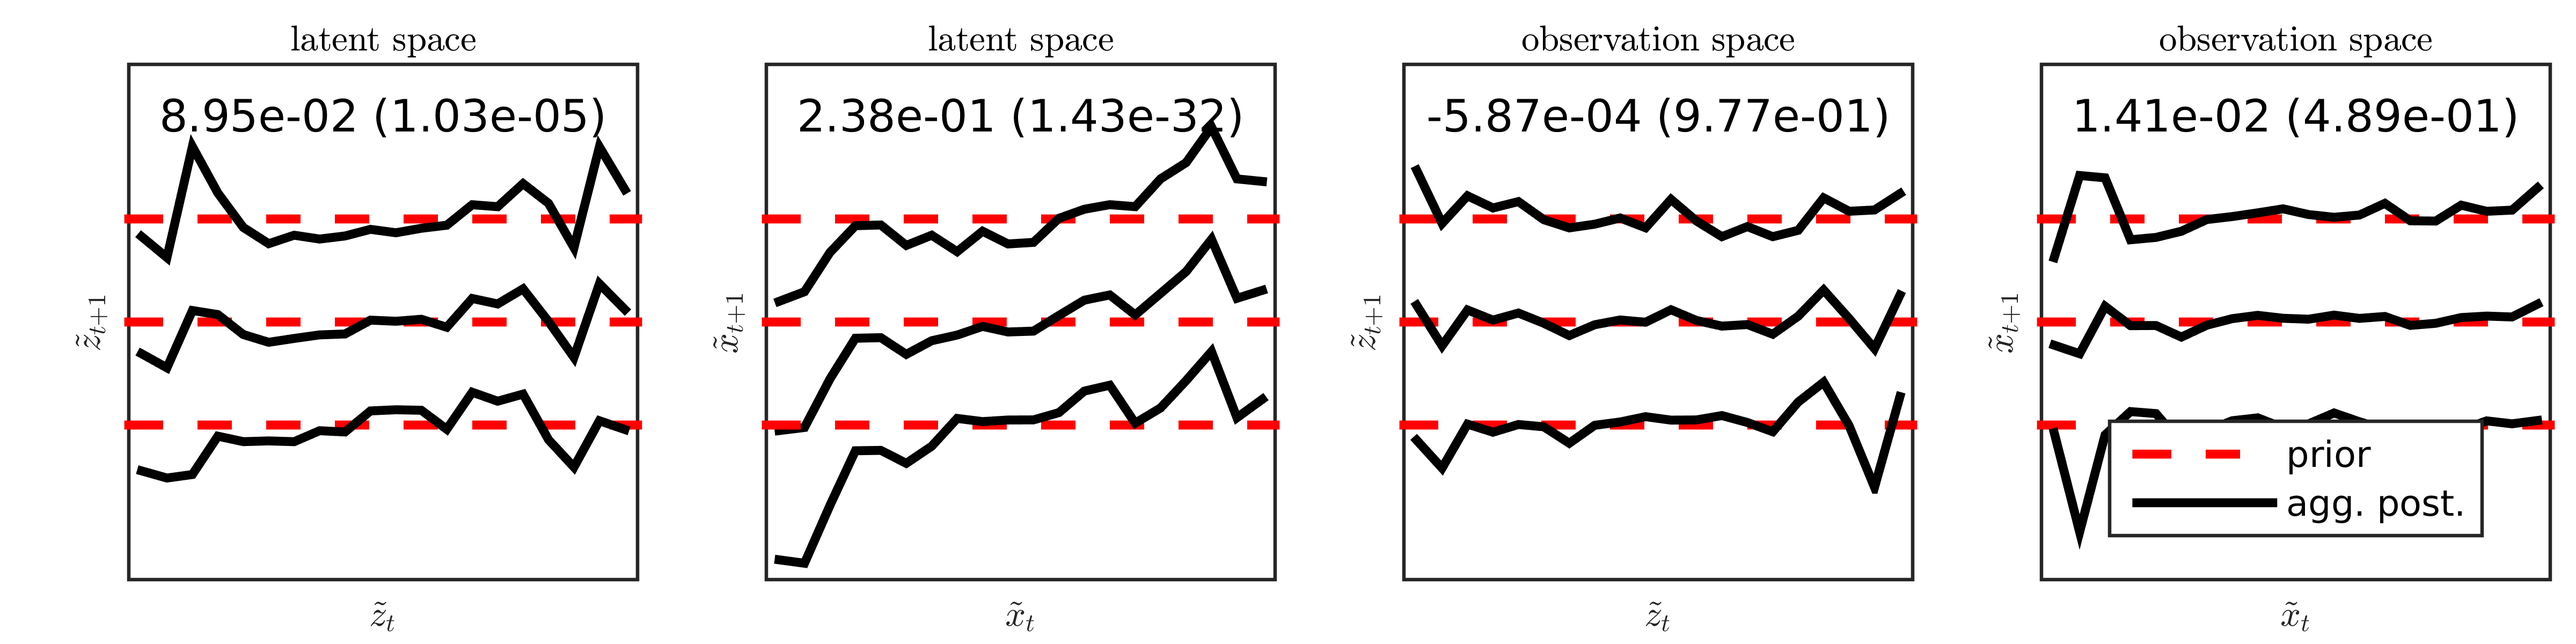
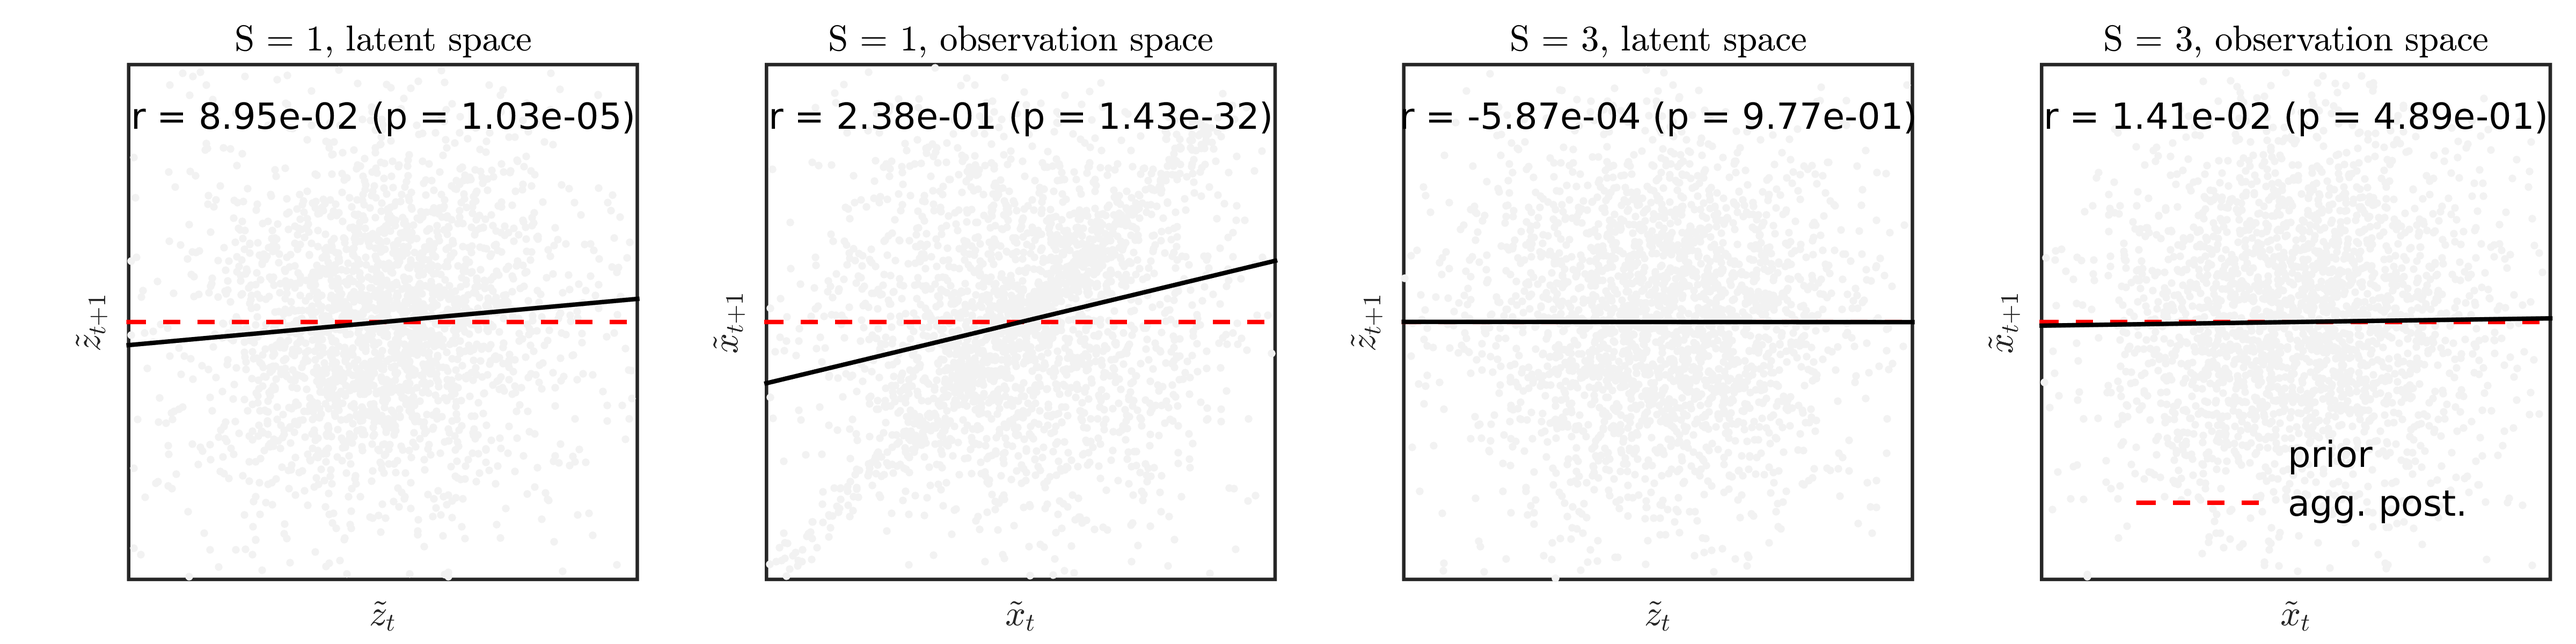
figures updated

diff --git a/plots/plotBee2.m b/plots/plotBee2.m
@@ -58,36 +58,26 @@ for countSub = 1:4
     switch countSub
         case 1
             data = latInn{6, 1}; V = latInnV(6, 1); P = latInnP(6, 1);
-            XLABEL = '$\tilde{z}_{t}$'; YLABEL = '$\tilde{z}_{t+1}$'; TITLE = 'latent space';
+            XLABEL = '$\tilde{z}_{t}$'; YLABEL = '$\tilde{z}_{t+1}$'; TITLE = 'S = 1, latent space';
         case 2
             data = obsInn{6, 1}; V = obsInnV(6, 1); P = obsInnP(6, 1);
-            XLABEL = '$\tilde{x}_{t}$'; YLABEL = '$\tilde{x}_{t+1}$'; TITLE = 'latent space';
+            XLABEL = '$\tilde{x}_{t}$'; YLABEL = '$\tilde{x}_{t+1}$'; TITLE = 'S = 1, observation space';
         case 3
             data = latInn{6, 2}; V = latInnV(6, 2); P = latInnP(6, 2);
-            XLABEL = '$\tilde{z}_{t}$'; YLABEL = '$\tilde{z}_{t+1}$'; TITLE = 'observation space';
+            XLABEL = '$\tilde{z}_{t}$'; YLABEL = '$\tilde{z}_{t+1}$'; TITLE = 'S = 3, latent space';
         case 4
             data = obsInn{6, 2}; V = obsInnV(6, 2); P = obsInnP(6, 2);
-            XLABEL = '$\tilde{x}_{t}$'; YLABEL = '$\tilde{x}_{t+1}$'; TITLE = 'observation space';
-    end
-    
-    for count = 1:length(xGrid) - 1
-        ids = data(:, 1) > xGrid(count) & data(:, 1) < xGrid(count + 1);
-        m(count) = mean(data(ids, 2));
-        s(count) = std(data(ids, 2));
+            XLABEL = '$\tilde{x}_{t}$'; YLABEL = '$\tilde{x}_{t+1}$'; TITLE = 'S = 3, observation space';
     end
     
     mysubplot(1, 4, countSub, subplotOptions{:}); hold on
+    % IND = randi(length(data), 1000, 1); 
+    plot(data(:, 1), data(:, 2), '.', 'color', [0.95 0.95 0.95])
     
     % Mean
-    plot(xGrid, zeros(1, length(xGrid)), 'r--', 'linewidth', 2)
-    plot((xGrid(1:end-1) + xGrid(2:end))/2, m, 'k', 'linewidth', 2)
+    plot(xGrid, zeros(1, length(xGrid)), 'r--', 'linewidth', 1)
+    plot(xGrid, regress(data(:, 1), data(:, 2)) * xGrid, 'k', 'linewidth', 1)
     
-    % Mean + - Std
-    plot(xGrid, ones(1, length(xGrid)), 'r--', 'linewidth', 2)
-    plot(xGrid, -ones(1, length(xGrid)), 'r--', 'linewidth', 2)
-    
-    plot((xGrid(1:end-1) + xGrid(2:end))/2, m + s, 'k', 'linewidth', 2)
-    plot((xGrid(1:end-1) + xGrid(2:end))/2, m - s, 'k', 'linewidth', 2)
     hold off
     
     axis([-2.5 2.5 -2.5 2.5])
@@ -96,10 +86,14 @@ for countSub = 1:4
     myxylabel(XLABEL, YLABEL, TITLE, 'interpreter', 'latex')
     
     if countSub == 4
-        legend('prior', 'agg. post.', 'location', 'south')
+        h = legend('prior', 'agg. post.', 'location', 'south');
+        set(h, 'edgecolor', 'none', 'location', 'south', 'color', 'none')
     end
-    text(0, 2, sprintf('%0.2e (%0.2e)', V, P), 'horizontalalignment', 'center') 
+    text(0, 2, sprintf('r = %0.2e (p = %0.2e)', V, P), 'horizontalalignment', 'center', 'fontname', 'palatino', 'fontsize', 8) 
 end
 
 filename = '../figures/fig/plotBee2';
-saveImage(filename, 'figHandle', gcf)
+saveImage(filename, 'figHandle', gcf, 'fontsize', 10)
+
+% Correlation in observation innovation for S=1
+regress(obsInn{6, 1}(0*606+(1:606), 1), obsInn{6, 1}(0*606+(1:606), 2));

diff --git a/plots/plotImagePatch2.m b/plots/plotImagePatch2.m
@@ -1,18 +1,16 @@
 load(sprintf('%s/plotImagePatch2.mat', DATAPATH))
 close all
-myfigure([6, 3]); hold on
-% [yy, xx] = ksdensity(G(:)); 
-[yy, xx] = myecdf(G(:)); 
+myfigure([6, 3]); hold on 
+[yy, xx] = myecdf(X(:)); 
 plot(xx, yy, 'color', 'r', 'linestyle', ':')
 lineStyle = {'-.', '--', '-'};
 for c = 1:3
-    tmp = Grep(:, :, c);
-    % [yy, xx] = ksdensity(tmp(:));
+    tmp = Xrep(:, :, c);
     [yy, xx] = myecdf(tmp(:));
     plot(xx, yy, 'color', 'k', 'linestyle', lineStyle{c})
 end
 box on
-set(gca, 'xlim', [-1 1], 'ylim', [0 1])
+set(gca, 'xlim', [-0.5 0.5], 'ylim', [0 1])
 legend('Observed', 'Gaussian', 'Laplace', 'Scale mix. Gauss.', 'location', 'southeast')
-filename = '../figures/fig/imagePatchGradient';
+filename = '../figures/fig/imagePatchRaw';
 saveImage(filename, 'figHandle', gcf, 'resolution', 800)

diff --git a/startup.m b/startup.m
@@ -1,10 +1,10 @@
-DATAPATH = '~/Desktop/localDirectory/mcls/data'; % large data files
+DATAPATH = sprintf('%s/data/', pwd); % large data files
 addpath(DATAPATH)
 
-addpath utilities/
-addpath functions/
-addpath plots/
-addpath data/
+addpath(sprintf('%s/utilities/', pwd))
+addpath(sprintf('%s/functions/', pwd))
+addpath(sprintf('%s/plots/', pwd))
+addpath(sprintf('%s/data/', pwd))
 
 addpath ~/Desktop/localDirectory/matlabToolbox/cbrewer/
 
